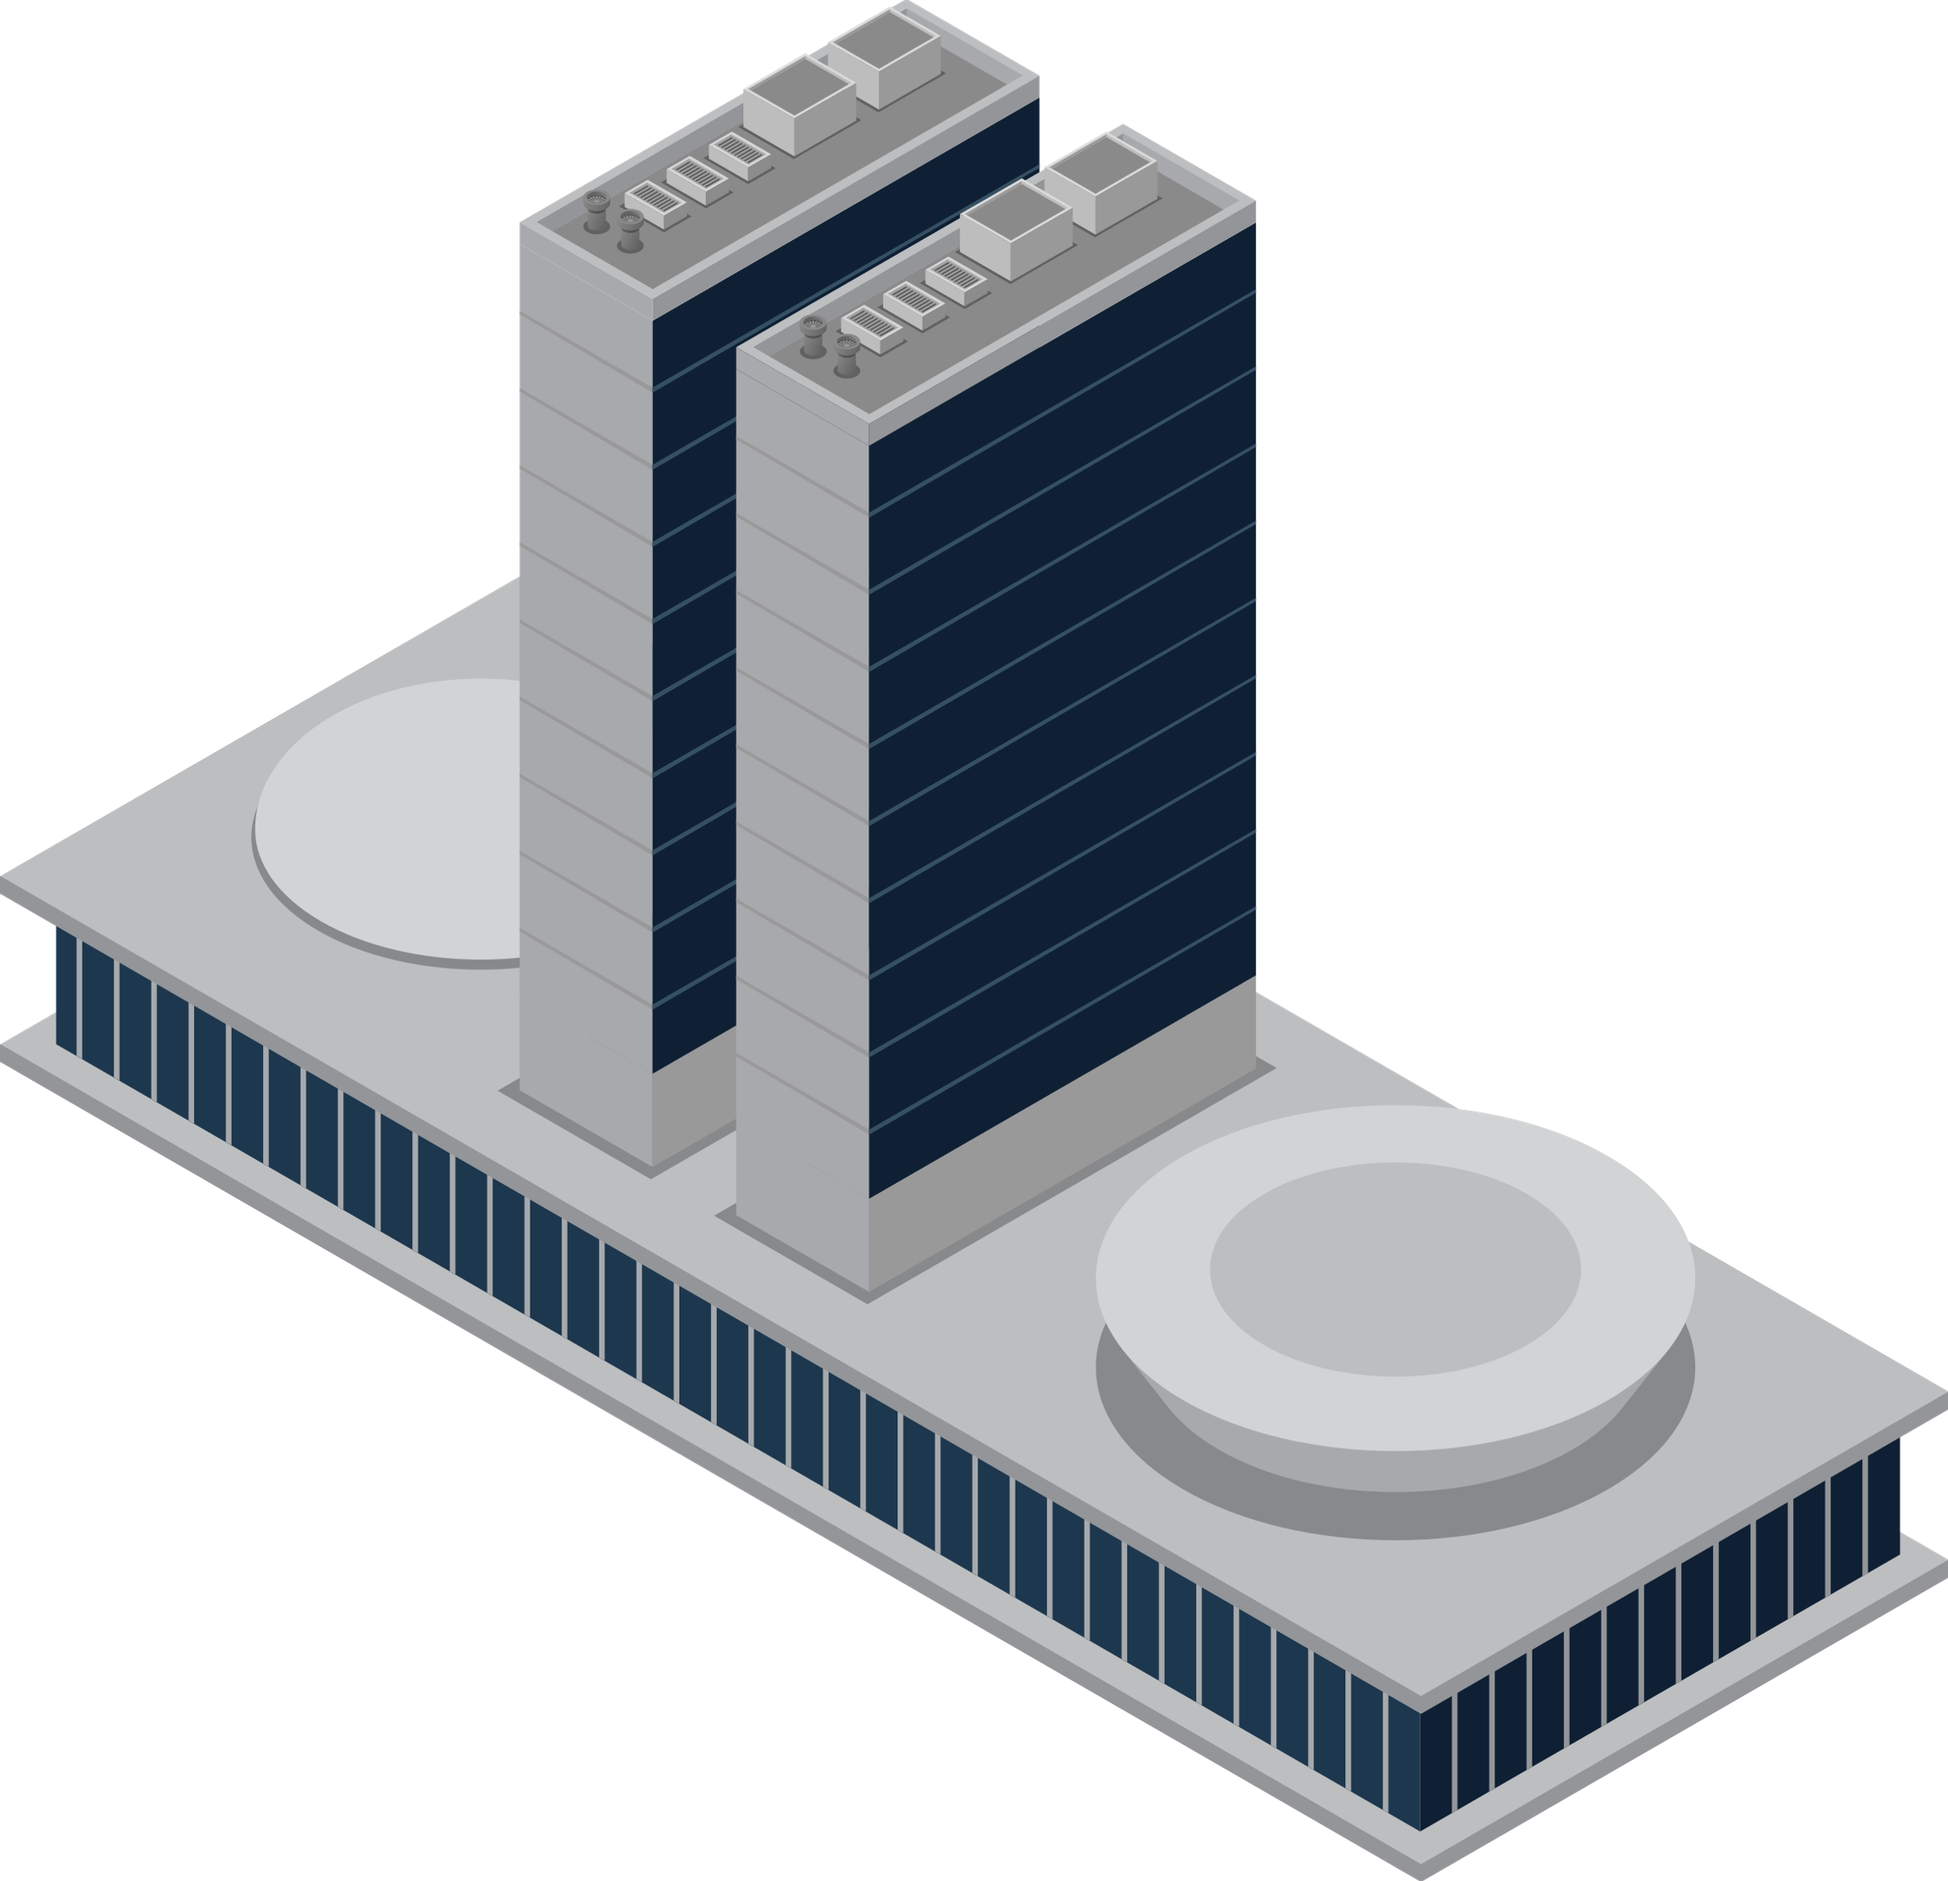
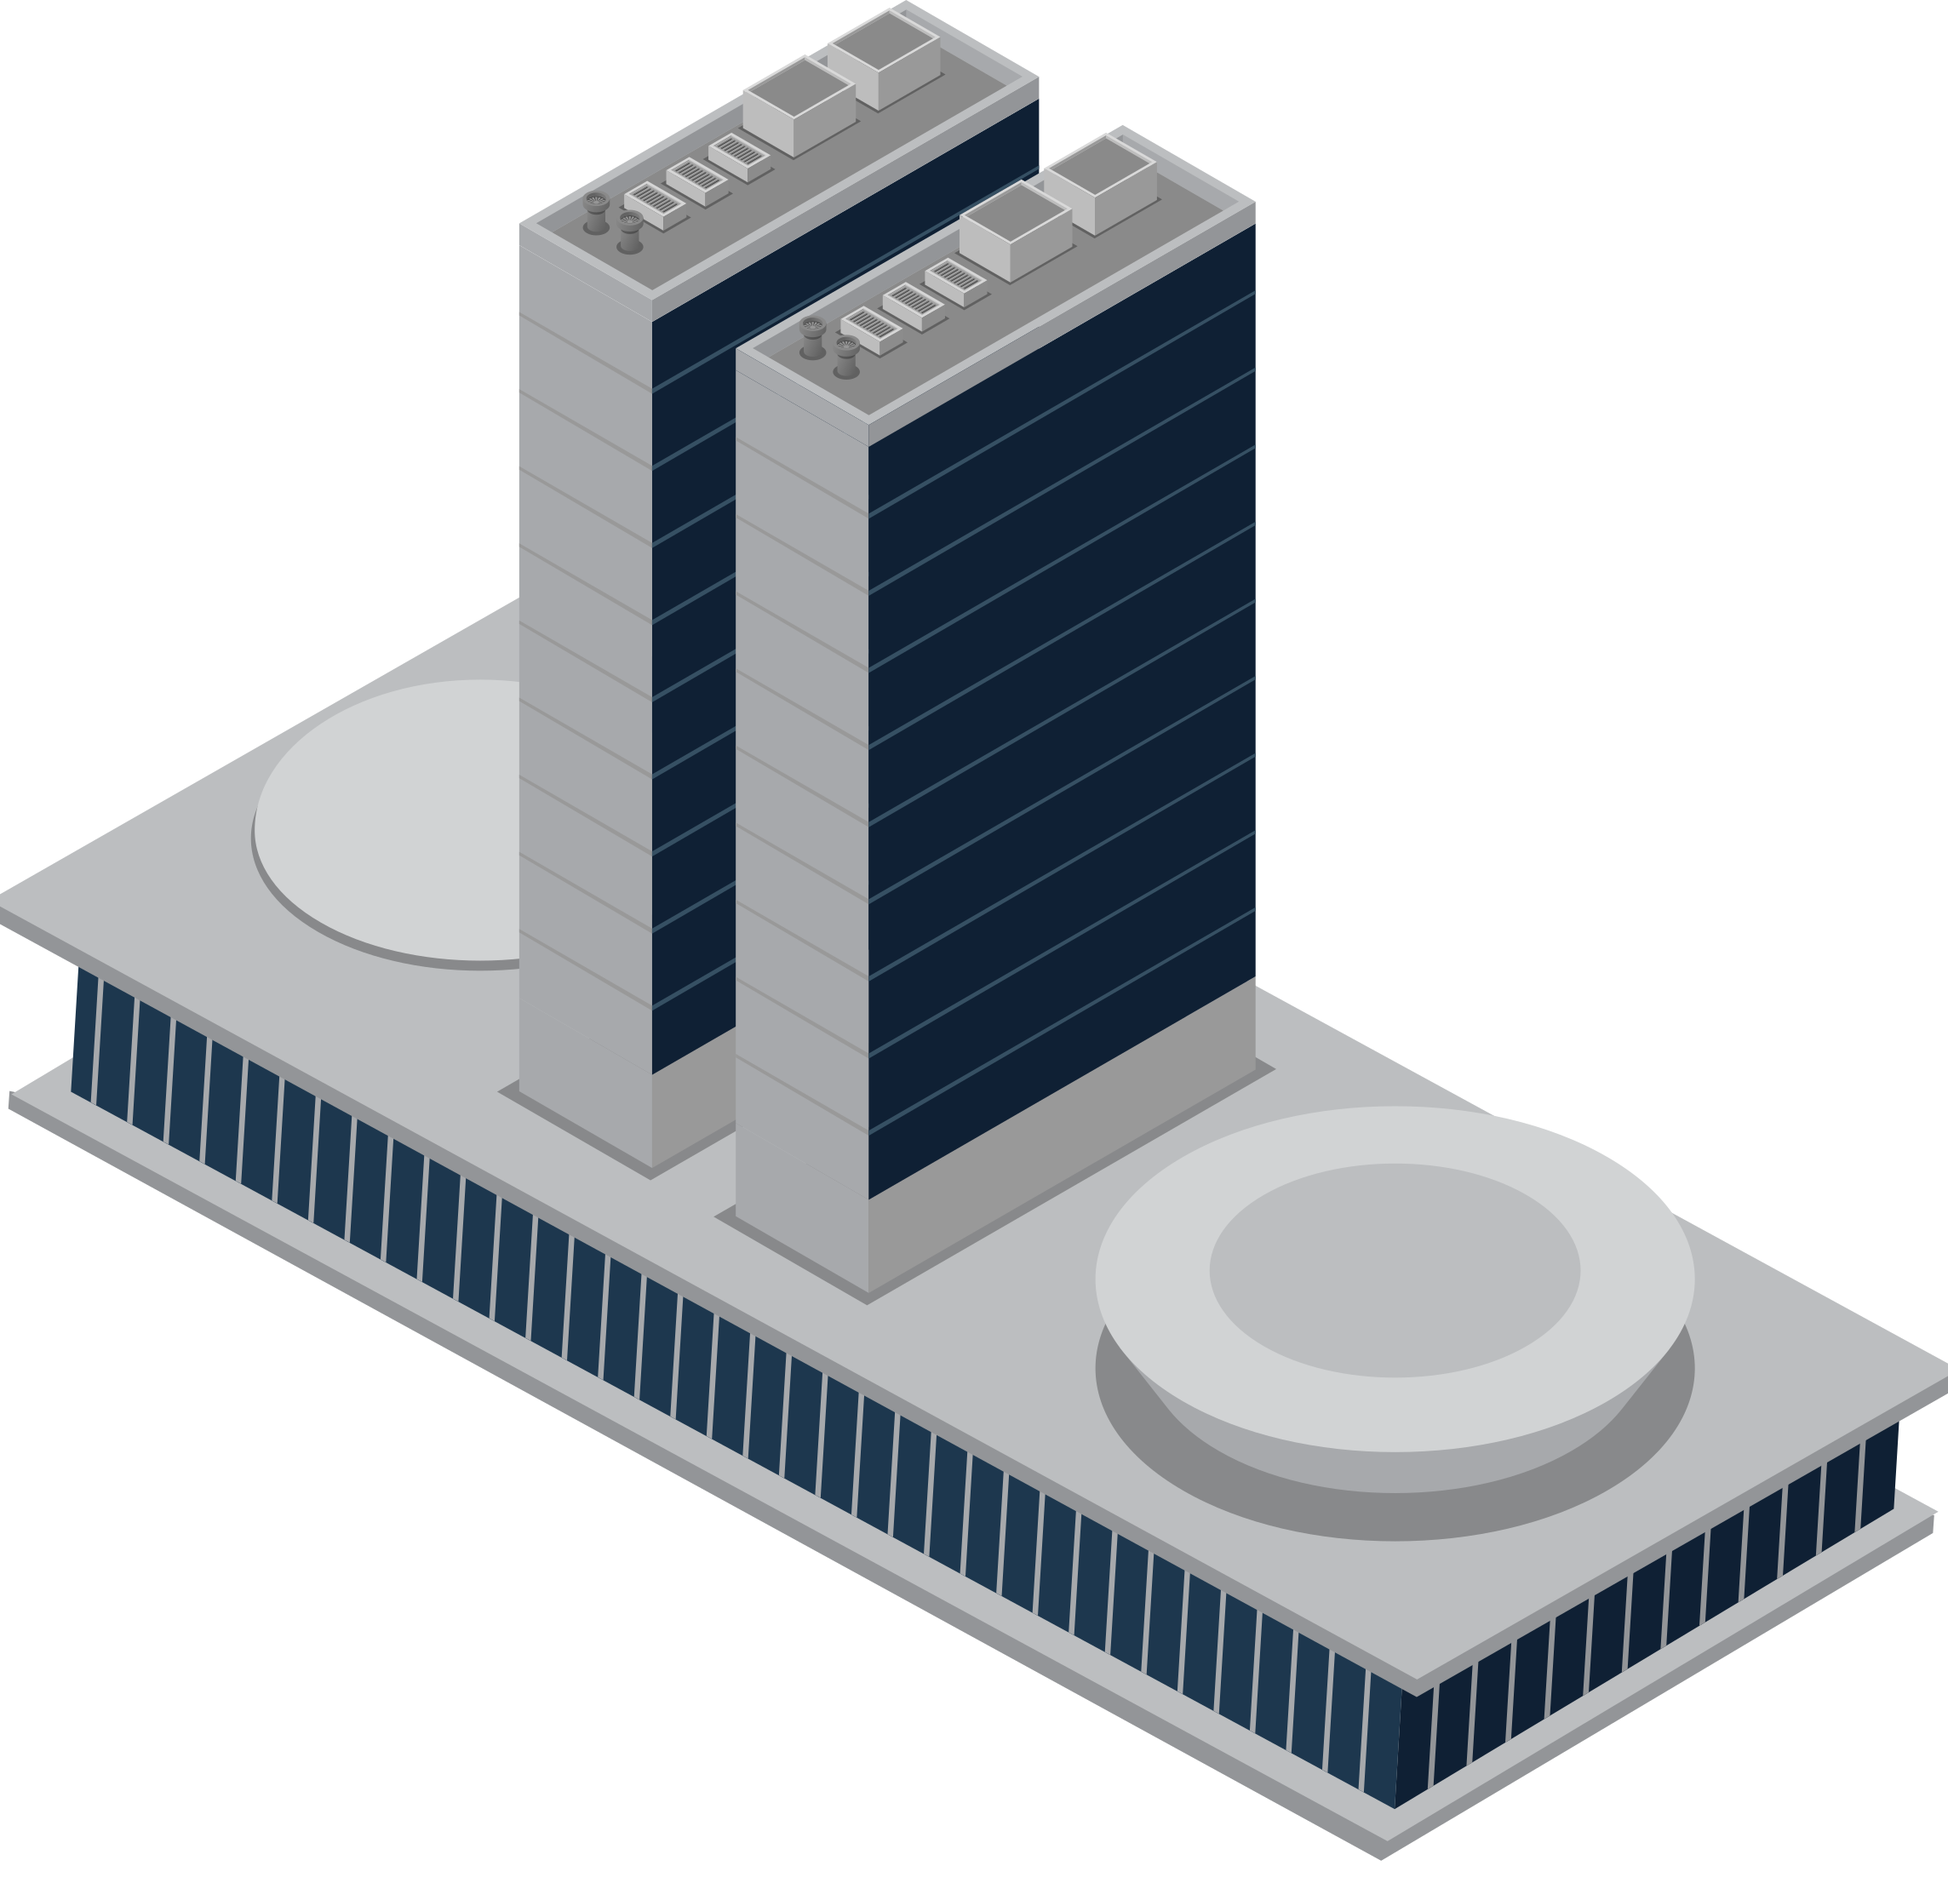
Buildings now align slightly better

diff --git a/UniSim/core/src/main/java/io/github/unisim/ui/BuildingMenu.java b/UniSim/core/src/main/java/io/github/unisim/ui/BuildingMenu.java
@@ -84,7 +84,7 @@ public class BuildingMenu {
     buildings.add(new Building(
         new Texture(Gdx.files.internal("buildings/labs.png")),
         0.0075f,
-        new Vector2(1.8f, 3.0f),
+        new Vector2(1.8f, 4.0f),
         new Point(),
         new Point(30, 16),
         false,
@@ -132,9 +132,9 @@ public class BuildingMenu {
     buildings.add(new Building(
         new Texture(Gdx.files.internal("buildings/tennisCourt.png")),
         0.0025f,
-        new Vector2(1f, -1.0f),
+        new Vector2(1f, 0.1f),
         new Point(),
-        new Point(7, 10),
+        new Point(7, 11),
         false,
         BuildingType.RECREATION,
         "Tennis Court",
